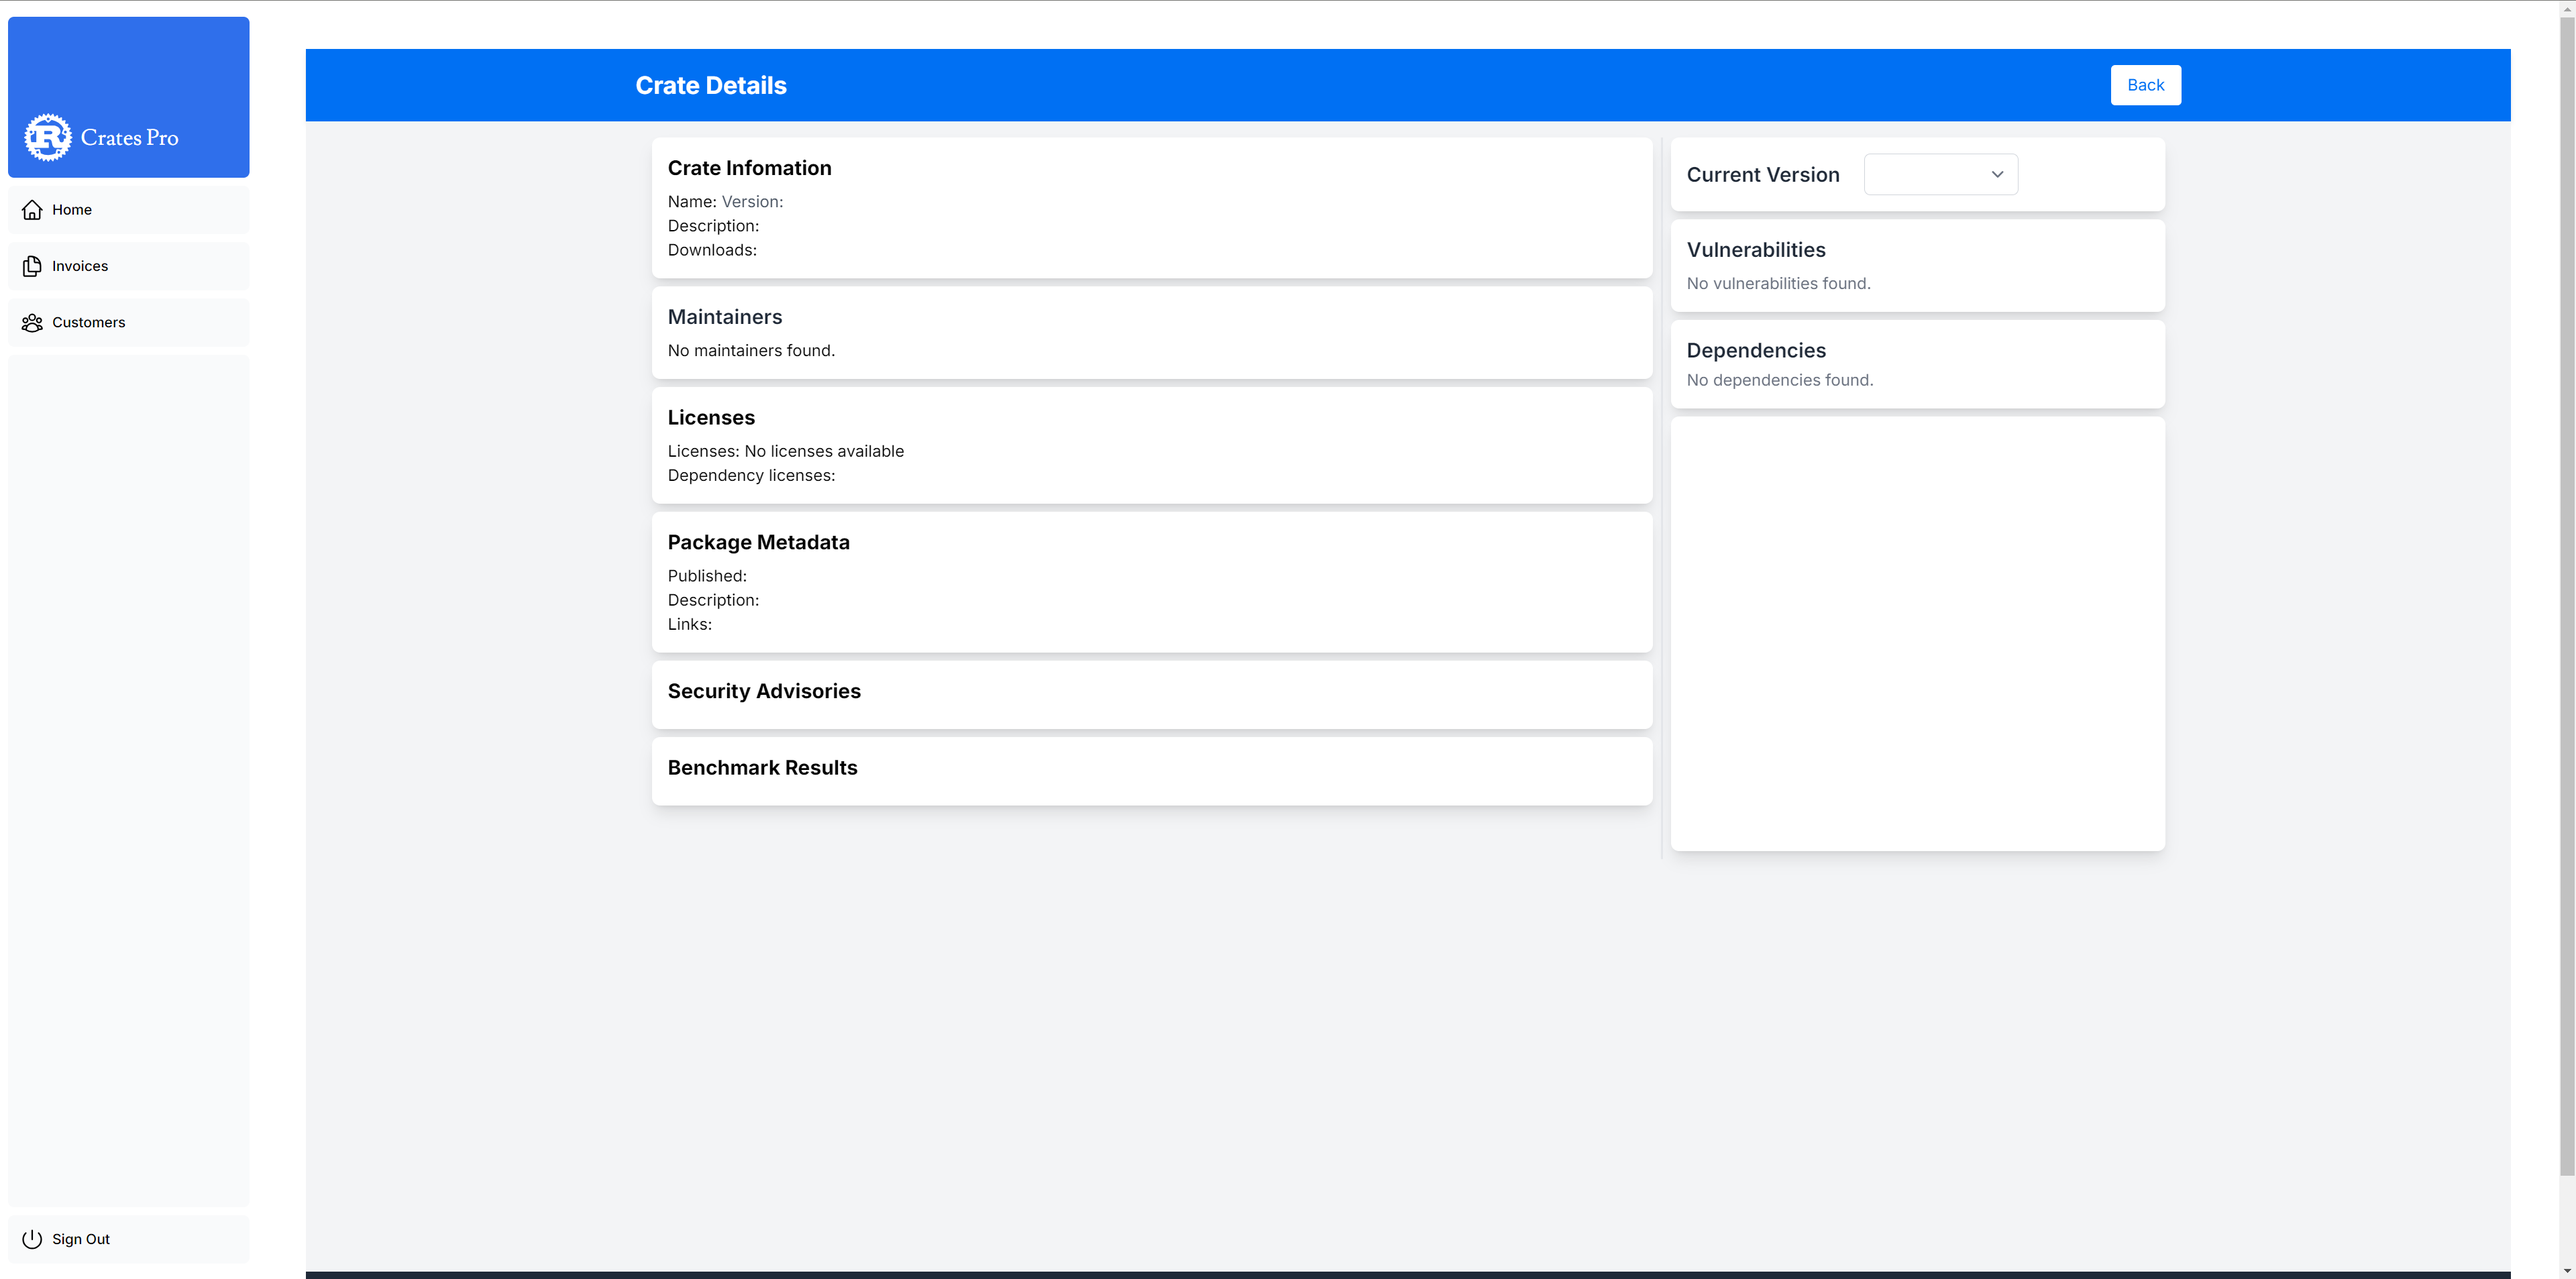
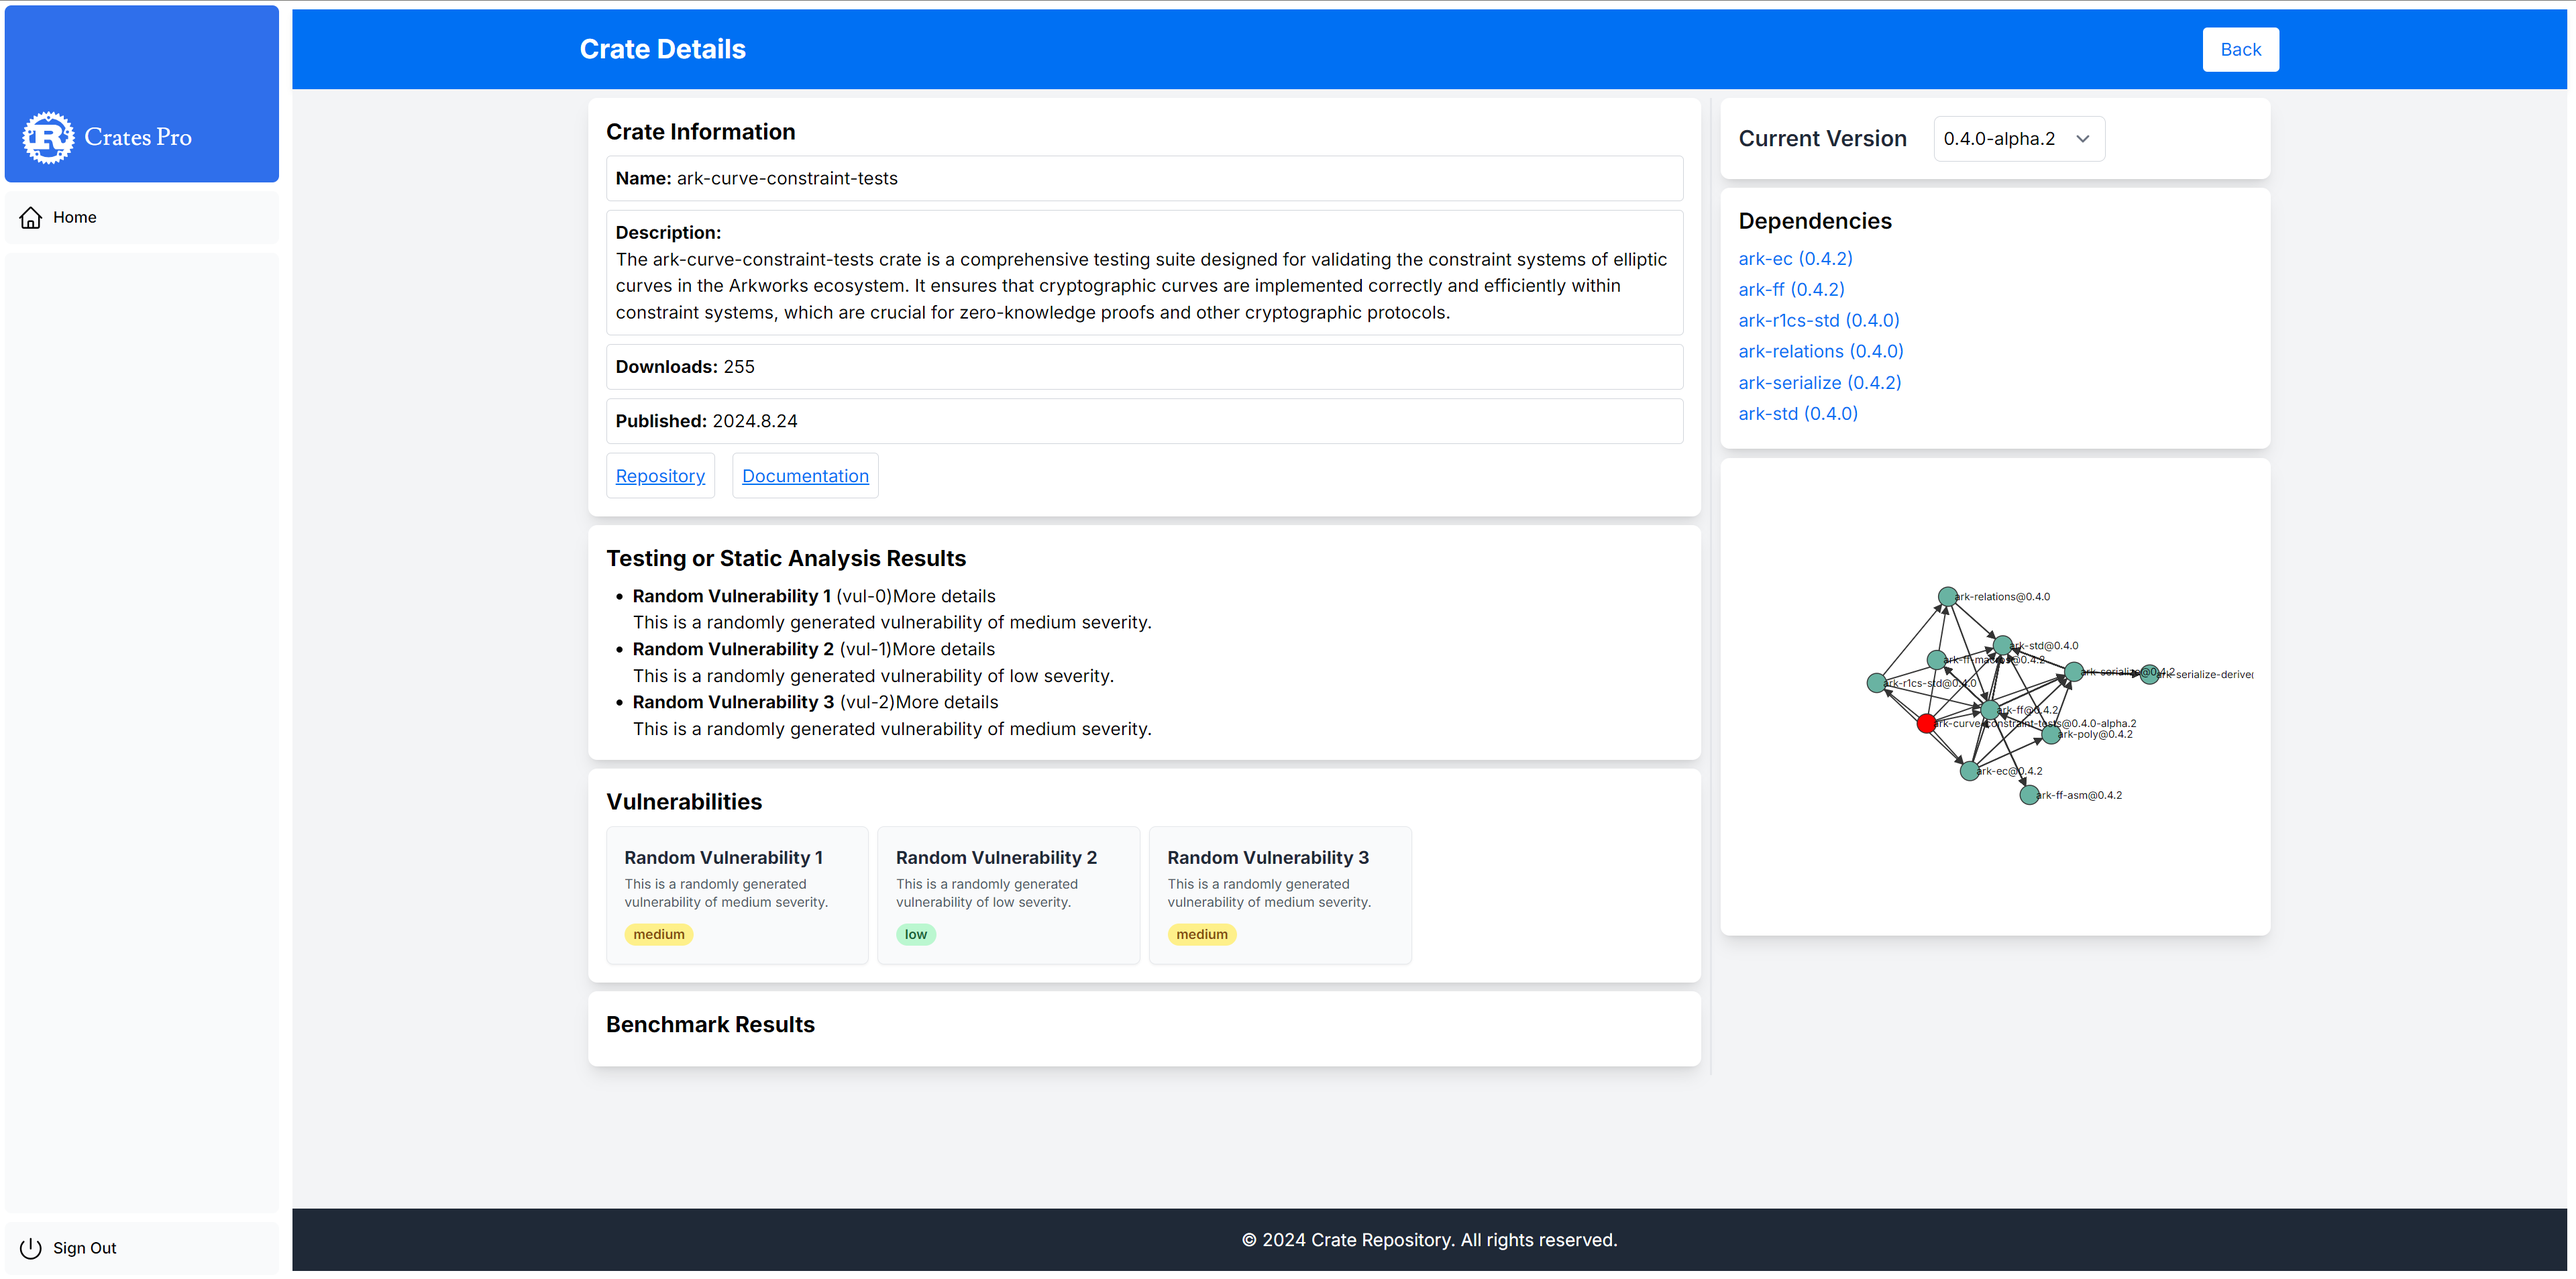
fix component

diff --git a/app/programs/[name]/[version]/page.tsx b/app/programs/[name]/[version]/page.tsx
@@ -4,15 +4,14 @@ import React, { useEffect, useState } from 'react';
 import { useParams } from 'next/navigation';
 import Header from '../../../../components/Header';
 import Footer from '../../../../components/Footer';
-import CrateInfoCard, { CrateInfo } from '../../../../components/CrateInfoCard';
+import CrateInfoCard from '../../../../components/CrateInfoCard';
 import DependenciesList, { Dependency } from '../../../../components/DependenciesList';
 import DependencyGraph, {GraphDependency} from '../../../../components/DependencyGraph';
 import VulnerabilitiesList, { Vulnerability } from '../../../../components/VulnerabilitiesList';
 import SecurityAdvisories from '../../../../components/SecurityAdvisories';
-import LicensesInfo from '../../../../components/LicensesInfo';
-import MetadataSection from '@/components/MetadataSection';
 import BenchmarkResults from '../../../../components/BenchmarkResults';
 import VersionsSelector from '../../../../components/VersionsSelector';
+import { CrateInfo } from '@/app/lib/crate_info';
 
 
 async function fetchDependencyTree(name: string, version: string) {
@@ -56,7 +55,7 @@ const CratePage = () => {
             .then(data => {
                 setCrateInfo(data.crateInfo || {});
                 setVersions(data.versions || []);
-                setVulnerabilities(data.vulnerabilities || []);
+            
                 setBenchmarks(data.benchmarks || []);
             })
             .catch(error => {
@@ -65,6 +64,20 @@ const CratePage = () => {
     
     }, [crateName, currentVersion]);
  
+    useEffect(()=>{
+        fetch(`/api/crates/${name}/${version}`)
+        .then(response => response.json())
+        .then(data => {
+            setVulnerabilities(data.vulnerabilities);
+            setDependencies(data.dependencies);
+        })
+        .catch(error => {
+            console.error('Error fetching data:', error);
+        });
+
+
+    }, [crateName, currentVersion]);
+
 
     useEffect(() => {
         async function loadDependencies() {
@@ -102,9 +115,8 @@ const CratePage = () => {
                 <div className="container mx-auto p-2 flex">
                     <div className="w-full md:w-2/3 pr-2">                        
                         <CrateInfoCard crateInfo={crateInfo} />
-                        <LicensesInfo licenses={crateInfo.licenses} dependencyLicenses={crateInfo.dependencyLicenses} />
-                        <MetadataSection publishedDate={crateInfo.publishedDate} description={crateInfo.description} links={crateInfo.links} />
                         <SecurityAdvisories vulnerabilities={vulnerabilities} />
+                        <VulnerabilitiesList vulnerabilities={vulnerabilities} />
                         <BenchmarkResults benchmarks={benchmarks} />
                     </div>
                     <div className="w-full md:w-1/3 pl-2 border-l-2">
@@ -114,7 +126,7 @@ const CratePage = () => {
                             crateName={crateInfo.name}
                             onVersionChange={handleVersionChange}
                         />
-                        <VulnerabilitiesList vulnerabilities={vulnerabilities} />
+                        
                         <DependenciesList dependencies={dependencies} onDependencyClick={handleDependencyClick} />
                         <DependencyGraph crateName={name} currentVersion={version} dependencies={graphDependencies} />
                     </div>

diff --git a/components/CrateInfoCard.tsx b/components/CrateInfoCard.tsx
@@ -1,36 +1,29 @@
-export interface CrateInfo {
-    name: string;
-    description: string;
-    repository: string;
-    downloads: number;
-    maintainers: Maintainer[];
-    documentation: string;
-    publishedDate: string;
-    licenses: string[];
-    dependencyLicenses: Record<string, number>;
-    links: Record<string, string>;
-}
-interface Maintainer {
-    name: string;
-    email: string;
-}
+import { CrateInfo } from "@/app/lib/crate_info";
+
 const CrateInfoCard = ({ crateInfo }: { crateInfo: CrateInfo }) => (
     <section className="bg-white p-4 mb-2 shadow-lg rounded-lg">
-        <h3 className="text-xl font-bold mb-2">Crate Infomation</h3>
-        <p>Name: {crateInfo.name}</p>
-        <p>Description: {crateInfo.description}</p>
-        <p>Downloads: {crateInfo.downloads}</p>
+        <h3 className="text-xl font-bold mb-2">Crate Information</h3>
+        <div className="space-y-2">
+        <p className="border border-gray-300 hover:bg-gray-100 hover:border-gray-400 p-2 rounded mb-2"><strong>Name:</strong> {crateInfo.name}</p>
+        <div className="border border-gray-300 hover:bg-gray-100 hover:border-gray-400 p-2 rounded text-left mb-2">
+                <p><strong>Description:</strong></p>
+                <p>{crateInfo.description}</p>
+        </div>
+        <p className="border border-gray-300 hover:bg-gray-100 hover:border-gray-400 p-2 rounded mb-2"><strong>Downloads:</strong> {crateInfo.downloads}</p>
+        <p className="border border-gray-300 hover:bg-gray-100 hover:border-gray-400 p-2 rounded mb-2"><strong>Published:</strong> {crateInfo.publishedDate}</p>
         {crateInfo.repository && (
-            <a href={crateInfo.repository} className="text-blue-500 underline mb-2 inline-block" target="_blank" rel="noopener noreferrer">
+            <a href={crateInfo.repository} className="text-blue-500 underline mb-2 inline-block border border-gray-300 hover:bg-gray-100 hover:border-gray-400 p-2 rounded" target="_blank" rel="noopener noreferrer">
                 Repository
             </a>
         )}
         {crateInfo.documentation && (
-            <a href={crateInfo.documentation} className="text-blue-500 underline mb-2 inline-block ml-4" target="_blank" rel="noopener noreferrer">
+            <a href={crateInfo.documentation} className="text-blue-500 underline mb-2 inline-block ml-4 border border-gray-300 hover:bg-gray-100 hover:border-gray-400 p-2 rounded" target="_blank" rel="noopener noreferrer">
                 Documentation
             </a>
         )}
+        </div>
     </section>
 );
+
 
 export default CrateInfoCard;

diff --git a/app/api/crates/[name]/[version]/route.ts b/app/api/crates/[name]/[version]/route.ts
@@ -1,18 +1,39 @@
-// app/api/crates/[name]/[version]/route.ts
 import { NextRequest, NextResponse } from 'next/server';
 import pool from '../../../../lib/db';
+import { Vulnerability } from '@/components/VulnerabilitiesList';
 
 interface CrateVersionInfo {
   name: string;
   version: string;
   documentation: string;
   dependencies: Dependency[];
+  vulnerabilities: Vulnerability[];
 }
 
 interface Dependency {
   name: string;
   version: string;
 }
+
+function generateRandomVulnerabilities(): Vulnerability[] {
+  const severities: Vulnerability['severity'][] = ['low', 'medium', 'high'];
+  const randomVulnerabilities: Vulnerability[] = [];
+
+  const numberOfVulnerabilities = Math.floor(Math.random() * 5); // 0 to 4 vulnerabilities
+
+  for (let i = 0; i < numberOfVulnerabilities; i++) {
+    const severity = severities[Math.floor(Math.random() * severities.length)];
+    randomVulnerabilities.push({
+      id: `vul-${i}`,
+      title: `Random Vulnerability ${i + 1}`,
+      description: `This is a randomly generated vulnerability of ${severity} severity.`,
+      severity,
+    });
+  }
+
+  return randomVulnerabilities;
+}
+
 export async function GET(req: NextRequest, { params }: { params: { name: string, version: string } }) {
   const { name, version } = params;
   const nameAndVersion = `${name}/${version}`;
@@ -20,13 +41,11 @@ export async function GET(req: NextRequest, { params }: { params: { name: string
   try {
     const client = await pool.connect();
 
-    // 查询 program_versions 表
     const versionRes = await client.query(
       'SELECT * FROM program_versions WHERE name_and_version = \$1',
       [nameAndVersion]
     );
 
-    // 查询 program_dependencies 表
     const dependenciesRes = await client.query(
       'SELECT dependency_name, dependency_version FROM program_dependencies WHERE name_and_version = \$1',
       [nameAndVersion]
@@ -44,11 +63,14 @@ export async function GET(req: NextRequest, { params }: { params: { name: string
       version: row.dependency_version,
     }));
 
+    const vulnerabilities = generateRandomVulnerabilities();
+
     const crateVersionInfo: CrateVersionInfo = {
       name: versionInfo.name,
       version: versionInfo.version,
       documentation: versionInfo.documentation,
       dependencies: dependencies,
+      vulnerabilities: vulnerabilities
     };
 
     return NextResponse.json(crateVersionInfo);

diff --git a/app/api/crates/[name]/route.ts b/app/api/crates/[name]/route.ts
@@ -1,5 +1,6 @@
 import { NextRequest, NextResponse } from 'next/server';
 import pool from '../../../lib/db';
+import { CrateInfo } from '@/app/lib/crate_info';
 
 export async function GET(req: NextRequest, { params }: { params: { name: string } }) {
   const { name } = params;
@@ -30,20 +31,20 @@ export async function GET(req: NextRequest, { params }: { params: { name: string
 
     client.release();
 
+    const crateInfo: CrateInfo = {
+      id: programInfo.id,
+      name: programInfo.name,
+      //description: programInfo.description,
+      description: "The ark-curve-constraint-tests crate is a comprehensive testing suite designed for validating the constraint systems of elliptic curves in the Arkworks ecosystem. It ensures that cryptographic curves are implemented correctly and efficiently within constraint systems, which are crucial for zero-knowledge proofs and other cryptographic protocols.",
+      repository: programInfo.github_url,
+      documentation: programInfo.doc_url,
+      downloads: programInfo.downloads,
+      cratesio: programInfo.cratesio,
+      publishedDate: '2024.8.24'
+    }
+
     return NextResponse.json({
-      crateInfo: {
-        id: programInfo.id,
-        name: programInfo.name,
-        description: programInfo.description,
-        namespace: programInfo.namespace,
-        maxVersion: programInfo.max_version,
-        githubUrl: programInfo.github_url,
-        megaUrl: programInfo.mega_url,
-        docUrl: programInfo.doc_url,
-        programType: programInfo.program_type,
-        downloads: programInfo.downloads,
-        cratesio: programInfo.cratesio,
-      },
+      crateInfo: crateInfo,
       versions: versions, // 添加版本信息
       vulnerabilities: [], // 如果有漏洞信息，可以在这里添加查询逻辑
     });

diff --git a/components/VulnerabilitiesList.tsx b/components/VulnerabilitiesList.tsx
@@ -7,14 +7,14 @@ export interface Vulnerability {
 
 const VulnerabilitiesList = ({ vulnerabilities }: { vulnerabilities: Vulnerability[] }) => (
     <section className="bg-white p-4 mb-2 shadow-lg rounded-lg">
-        <h2 className="text-xl font-semibold mb-2 text-gray-800">Vulnerabilities</h2>
+        <h2 className="text-xl font-bold mb-2">Vulnerabilities</h2>
         {vulnerabilities.length > 0 ? (
-            <ul className="space-y-6">
+            <ul className="grid grid-cols-1 md:grid-cols-4 gap-2">
                 {vulnerabilities.map(vul => (
-                    <li key={vul.id} className="p-6 bg-gray-50 rounded-lg shadow-md border border-gray-200">
-                        <h3 className="text-2xl font-bold mb-2 text-gray-800">{vul.title}</h3>
-                        <p className="text-gray-700 mb-4">{vul.description}</p>
-                        <span className={`inline-block rounded-full px-3 py-1 text-sm font-semibold ${getSeverityColor(vul.severity)}`}>
+                    <li key={vul.id} className="p-4 bg-gray-50 rounded-md shadow-sm border border-gray-200">
+                        <h3 className="text-x font-bold mb-1 text-gray-800">{vul.title}</h3>
+                        <p className="text-gray-600 text-xs mb-2">{vul.description}</p>
+                        <span className={`inline-block rounded-full px-2 py-0.5 text-xs font-semibold ${getSeverityColor(vul.severity)}`}>
                             {vul.severity}
                         </span>
                     </li>

diff --git a/components/SecurityAdvisories.tsx b/components/SecurityAdvisories.tsx
@@ -8,7 +8,7 @@ interface SecurityAdvisoriesProps {
 const SecurityAdvisories: React.FC<SecurityAdvisoriesProps> = ({ vulnerabilities }) => {
     return (
         <div className="bg-white p-4 mb-2 shadow-lg rounded-lg">
-            <h2 className="text-xl font-bold mb-2">Security Advisories</h2>
+            <h2 className="text-xl font-bold mb-2">Testing or Static Analysis Results</h2>
             <ul className="list-disc ml-6">
                 {vulnerabilities.map((vuln, index) => (
                     <li key={index}>

diff --git a/app/lib/crate_info.ts b/app/lib/crate_info.ts
@@ -1,0 +1,11 @@
+export interface CrateInfo {
+    id: string,
+    name: string;
+    description: string;
+    repository: string;
+    downloads: number;
+    documentation: string;
+    cratesio: string
+    publishedDate: string;
+}
+
